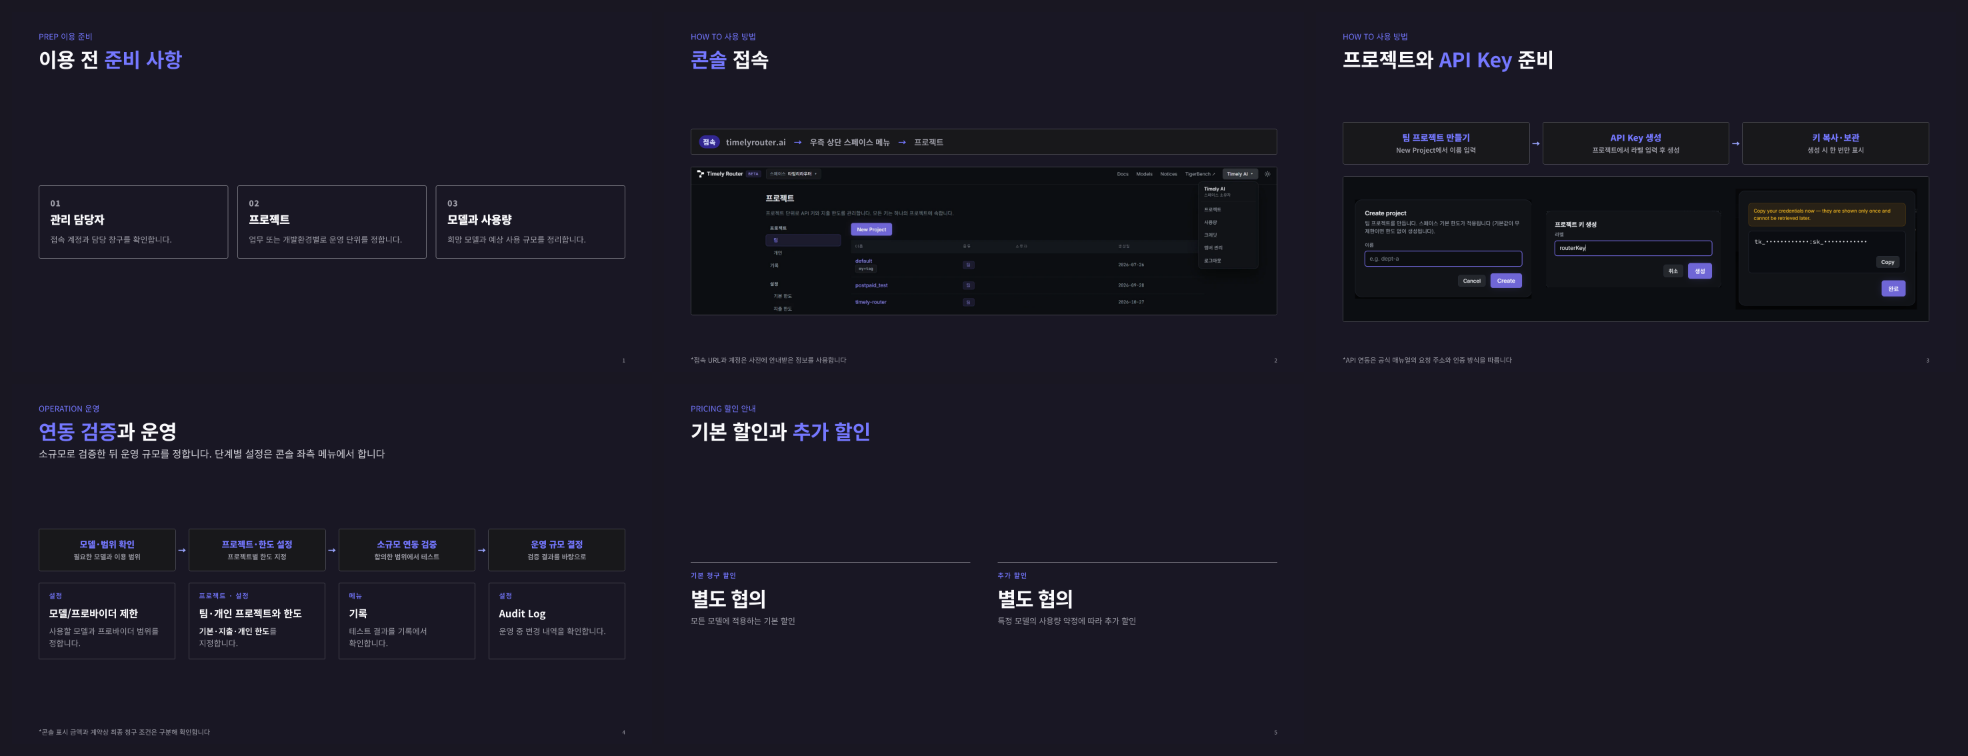
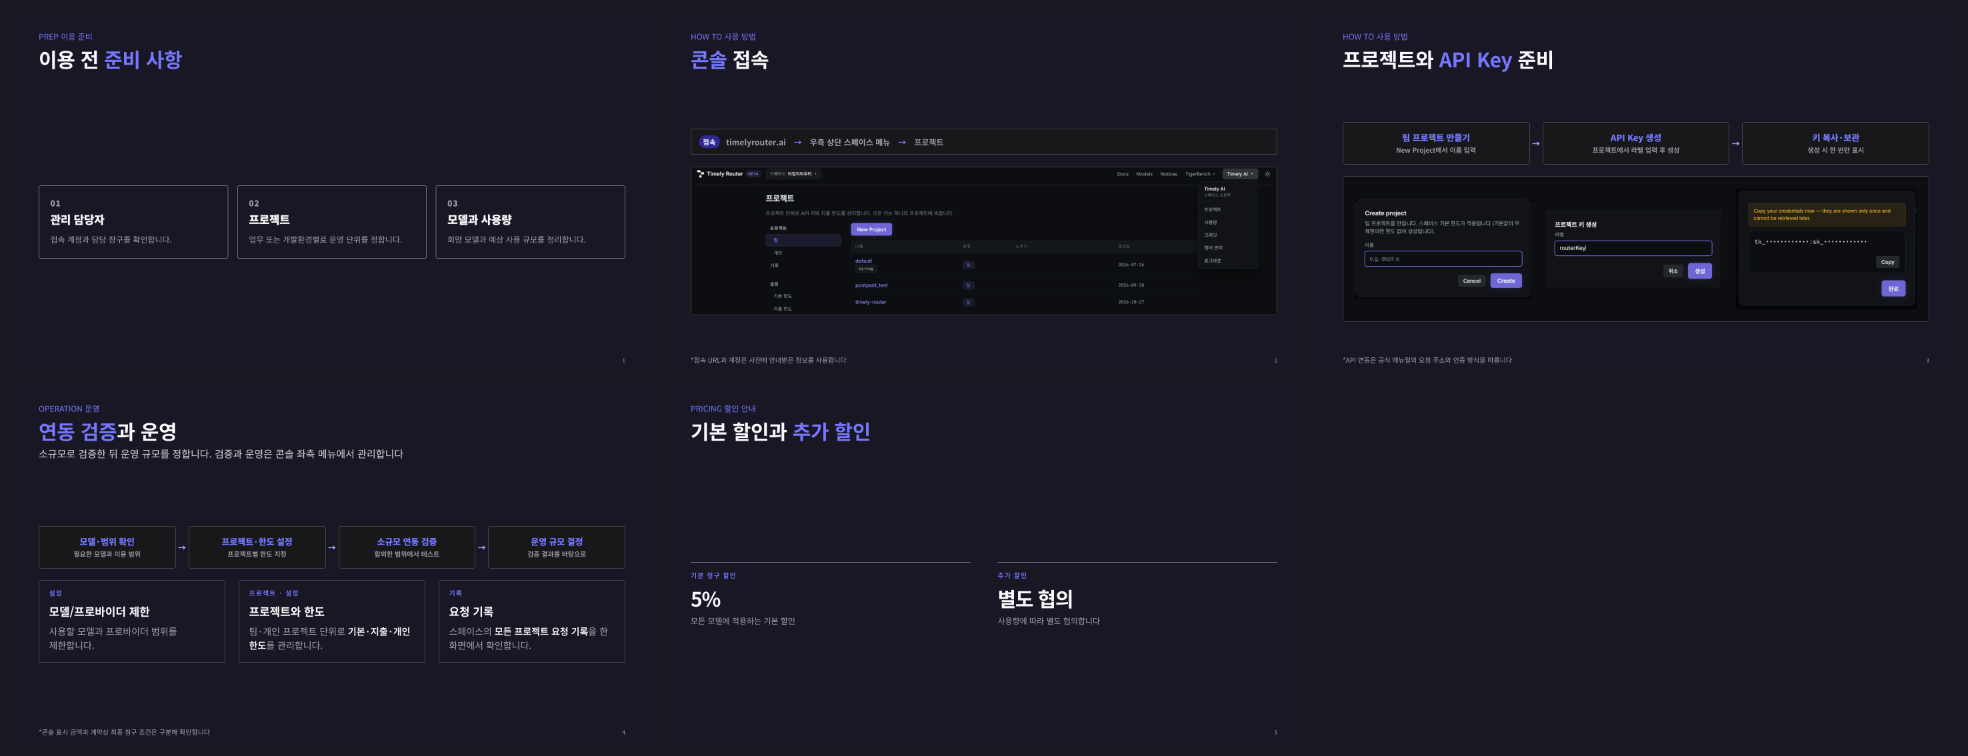
Set 5% base discount, drop Audit Log, describe request log page
Claude-Session: https://claude.ai/code/session_011MYQVH7VdXypSLypRUhG78

diff --git a/decks/timely-router-sk/deck.dark.html b/decks/timely-router-sk/deck.dark.html
@@ -573,7 +573,7 @@ body { font-family: var(--deck-font); -webkit-font-smoothing: antialiased; }
 <div class="slide body">
   <div class="eyebrow">OPERATION 운영</div>
   <h2 class="title"><span class="hl">연동 검증</span>과 운영</h2>
-  <div class="sub">소규모로 검증한 뒤 운영 규모를 정합니다. 단계별 설정은 콘솔 좌측 메뉴에서 합니다</div>
+  <div class="sub">소규모로 검증한 뒤 운영 규모를 정합니다. 검증과 운영은 콘솔 좌측 메뉴에서 관리합니다</div>
   <div class="well">
     <div class="pipeline">
       <div class="step"><b>모델·범위 확인</b><span>필요한 모델과 이용 범위</span></div><span class="arrow">→</span>
@@ -581,11 +581,10 @@ body { font-family: var(--deck-font); -webkit-font-smoothing: antialiased; }
       <div class="step"><b>소규모 연동 검증</b><span>합의한 범위에서 테스트</span></div><span class="arrow">→</span>
       <div class="step"><b>운영 규모 결정</b><span>검증 결과를 바탕으로</span></div>
     </div>
-    <div class="cards four">
-      <div class="card"><div class="kicker">설정</div><h4>모델/프로바이더 제한</h4><p>사용할 모델과 프로바이더 범위를 정합니다.</p></div>
-      <div class="card"><div class="kicker">프로젝트 · 설정</div><h4>팀·개인 프로젝트와 한도</h4><p><b>기본·지출·개인 한도</b>를 지정합니다.</p></div>
-      <div class="card"><div class="kicker">메뉴</div><h4>기록</h4><p>테스트 결과를 기록에서 확인합니다.</p></div>
-      <div class="card"><div class="kicker">설정</div><h4>Audit Log</h4><p>운영 중 변경 내역을 확인합니다.</p></div>
+    <div class="cards">
+      <div class="card"><div class="kicker">설정</div><h4>모델/프로바이더 제한</h4><p>사용할 모델과 프로바이더 범위를 제한합니다.</p></div>
+      <div class="card"><div class="kicker">프로젝트 · 설정</div><h4>프로젝트와 한도</h4><p>팀·개인 프로젝트 단위로 <b>기본·지출·개인 한도</b>를 관리합니다.</p></div>
+      <div class="card"><div class="kicker">기록</div><h4>요청 기록</h4><p>스페이스의 <b>모든 프로젝트 요청 기록</b>을 한 화면에서 확인합니다.</p></div>
     </div>
   </div>
   <div class="foot">*콘솔 표시 금액과 계약상 최종 청구 조건은 구분해 확인합니다</div>
@@ -593,15 +592,15 @@ body { font-family: var(--deck-font); -webkit-font-smoothing: antialiased; }
 </div>
 </section>
 
-<!-- 원본 06 · 기본 할인과 추가 협의 (할인율은 확정 후 반영) -->
+<!-- 원본 06 · 기본 할인과 추가 협의 -->
 <section>
 <div class="slide body">
   <div class="eyebrow">PRICING 할인 안내</div>
   <h2 class="title">기본 할인과 <span class="hl">추가 할인</span></h2>
   <div class="well">
     <div class="stat-tiles two">
-      <div class="stat-tile"><div class="label">기본 청구 할인</div><div class="value">별도 협의</div><p>모든 모델에 적용하는 기본 할인</p></div>
-      <div class="stat-tile"><div class="label">추가 할인</div><div class="value">별도 협의</div><p>특정 모델의 사용량 약정에 따라 추가 할인</p></div>
+      <div class="stat-tile"><div class="label">기본 청구 할인</div><div class="value">5%</div><p>모든 모델에 적용하는 기본 할인</p></div>
+      <div class="stat-tile"><div class="label">추가 할인</div><div class="value">별도 협의</div><p>사용량에 따라 별도 협의합니다</p></div>
     </div>
   </div>
   <div class="page"></div>

diff --git a/decks/timely-router-sk/deck.html b/decks/timely-router-sk/deck.html
@@ -62,7 +62,7 @@
 <div class="slide body">
   <div class="eyebrow">OPERATION 운영</div>
   <h2 class="title"><span class="hl">연동 검증</span>과 운영</h2>
-  <div class="sub">소규모로 검증한 뒤 운영 규모를 정합니다. 단계별 설정은 콘솔 좌측 메뉴에서 합니다</div>
+  <div class="sub">소규모로 검증한 뒤 운영 규모를 정합니다. 검증과 운영은 콘솔 좌측 메뉴에서 관리합니다</div>
   <div class="well">
     <div class="pipeline">
       <div class="step"><b>모델·범위 확인</b><span>필요한 모델과 이용 범위</span></div><span class="arrow">→</span>
@@ -70,11 +70,10 @@
       <div class="step"><b>소규모 연동 검증</b><span>합의한 범위에서 테스트</span></div><span class="arrow">→</span>
       <div class="step"><b>운영 규모 결정</b><span>검증 결과를 바탕으로</span></div>
     </div>
-    <div class="cards four">
-      <div class="card"><div class="kicker">설정</div><h4>모델/프로바이더 제한</h4><p>사용할 모델과 프로바이더 범위를 정합니다.</p></div>
-      <div class="card"><div class="kicker">프로젝트 · 설정</div><h4>팀·개인 프로젝트와 한도</h4><p><b>기본·지출·개인 한도</b>를 지정합니다.</p></div>
-      <div class="card"><div class="kicker">메뉴</div><h4>기록</h4><p>테스트 결과를 기록에서 확인합니다.</p></div>
-      <div class="card"><div class="kicker">설정</div><h4>Audit Log</h4><p>운영 중 변경 내역을 확인합니다.</p></div>
+    <div class="cards">
+      <div class="card"><div class="kicker">설정</div><h4>모델/프로바이더 제한</h4><p>사용할 모델과 프로바이더 범위를 제한합니다.</p></div>
+      <div class="card"><div class="kicker">프로젝트 · 설정</div><h4>프로젝트와 한도</h4><p>팀·개인 프로젝트 단위로 <b>기본·지출·개인 한도</b>를 관리합니다.</p></div>
+      <div class="card"><div class="kicker">기록</div><h4>요청 기록</h4><p>스페이스의 <b>모든 프로젝트 요청 기록</b>을 한 화면에서 확인합니다.</p></div>
     </div>
   </div>
   <div class="foot">*콘솔 표시 금액과 계약상 최종 청구 조건은 구분해 확인합니다</div>
@@ -82,15 +81,15 @@
 </div>
 </section>
 
-<!-- 원본 06 · 기본 할인과 추가 협의 (할인율은 확정 후 반영) -->
+<!-- 원본 06 · 기본 할인과 추가 협의 -->
 <section>
 <div class="slide body">
   <div class="eyebrow">PRICING 할인 안내</div>
   <h2 class="title">기본 할인과 <span class="hl">추가 할인</span></h2>
   <div class="well">
     <div class="stat-tiles two">
-      <div class="stat-tile"><div class="label">기본 청구 할인</div><div class="value">별도 협의</div><p>모든 모델에 적용하는 기본 할인</p></div>
-      <div class="stat-tile"><div class="label">추가 할인</div><div class="value">별도 협의</div><p>특정 모델의 사용량 약정에 따라 추가 할인</p></div>
+      <div class="stat-tile"><div class="label">기본 청구 할인</div><div class="value">5%</div><p>모든 모델에 적용하는 기본 할인</p></div>
+      <div class="stat-tile"><div class="label">추가 할인</div><div class="value">별도 협의</div><p>사용량에 따라 별도 협의합니다</p></div>
     </div>
   </div>
   <div class="page"></div>

diff --git a/decks/timely-router-sk/notes.md b/decks/timely-router-sk/notes.md
@@ -26,14 +26,14 @@
 - 출처: 2026-10-29 고객 안내 메일(Gmail 1a187a928b7123e5)
 
 ## 4 (원본 5) 연동 검증과 운영
-- 단계별 설정 위치(콘솔 좌측 메뉴): 모델/프로바이더 제한 → 팀·개인 프로젝트와 기본·지출·개인 한도 → 기록 → Audit Log. 각 메뉴의 세부 동작은 실제 화면에서 확인한 뒤 설명합니다.
+- 콘솔 좌측 메뉴: 모델/프로바이더 제한, 팀·개인 프로젝트와 기본·지출·개인 한도, 기록(스페이스의 모든 프로젝트 요청 기록을 보여 주는 페이지). Audit Log는 덱에서 제외했습니다.
 - 권장 운영 순서입니다. 테스트는 담당자와 합의한 범위에서 하며, 무상 테스트나 자동 결제를 약속하지 않습니다.
 - 한도 설정은 실제 제공 범위에서 확인합니다. 알림, 하드 차단, 실시간 청구 동기화 같은 미확인 기능은 보장하지 않습니다.
 - 공개 모델 단가와 고객별 계약 할인·정산 조건은 구분해 안내합니다.
 - 출처: 2026-10-29 메일(Gmail 1a187a928b7123e5), 과금 정책 https://app.notion.com/p/3caf49d7e77e81809182caee0e54b7a9
 
 ## 5 (원본 6) 기본 할인과 추가 할인
-- **할인율은 확정 전입니다. 덱에는 "별도 협의"로 적었습니다.** 확정되면 덱 숫자를 바꿉니다.
+- 덱 표기(사용자 확정): 기본 청구 할인 5%(모든 모델), 추가 할인은 사용량에 따라 별도 협의.
 - 2026.10.26 내부 답변: 모든 모델 기본 청구 할인으로 시작하고, 고객별 특정 모델 사용량 약정에 따라 할인율을 차등 적용하는 정책안입니다. 현행 시행 여부와 SK 적용 승인은 확인이 필요합니다.
 - 대상 모델, 시행일, 사용량 약정, 정산 조건, 최소 사용액, 통화, 약정기간, VAT, 결제기한은 확정되지 않았습니다.
 - 출처: https://timely-j0t4248.slack.com/archives/C0ASPMTTQAD/p1793004984680539?thread_ts=1792749553.280019&cid=C0ASPMTTQAD
